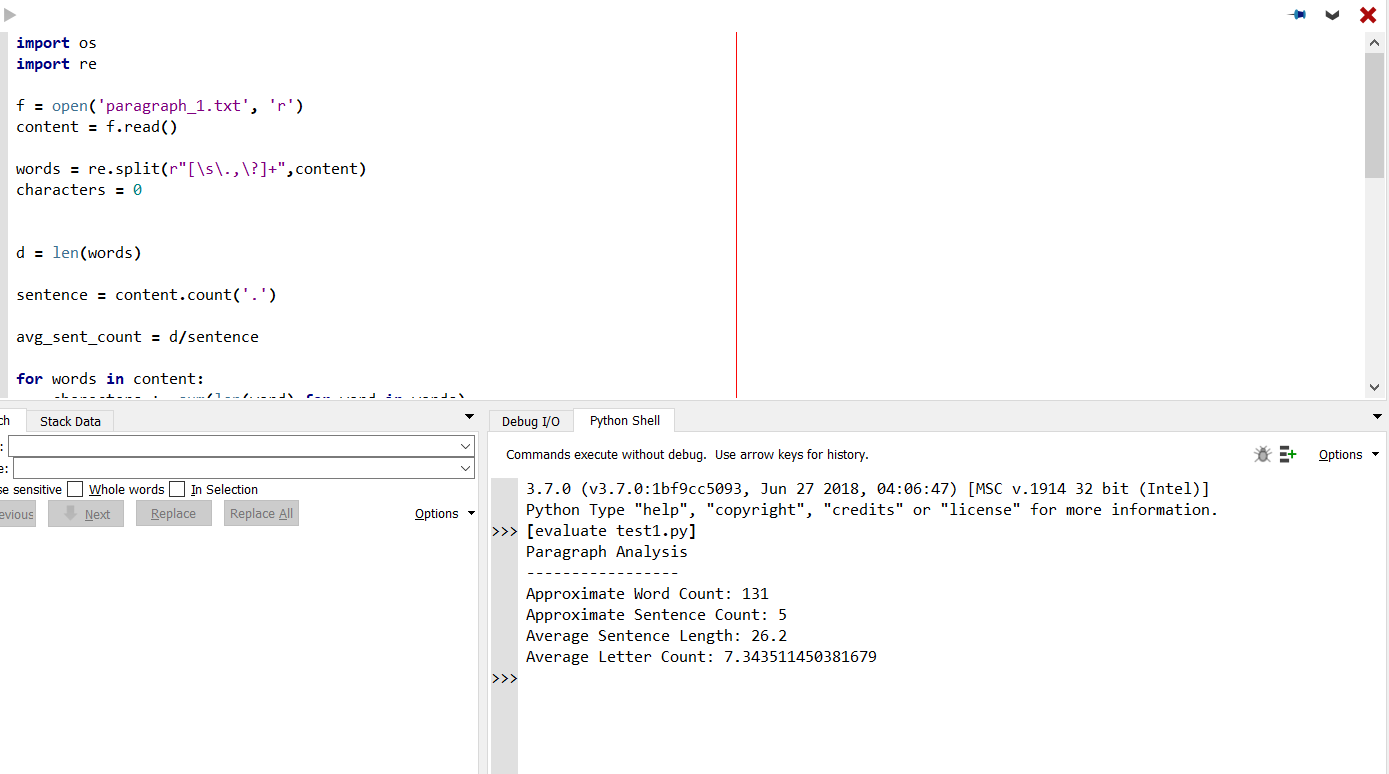
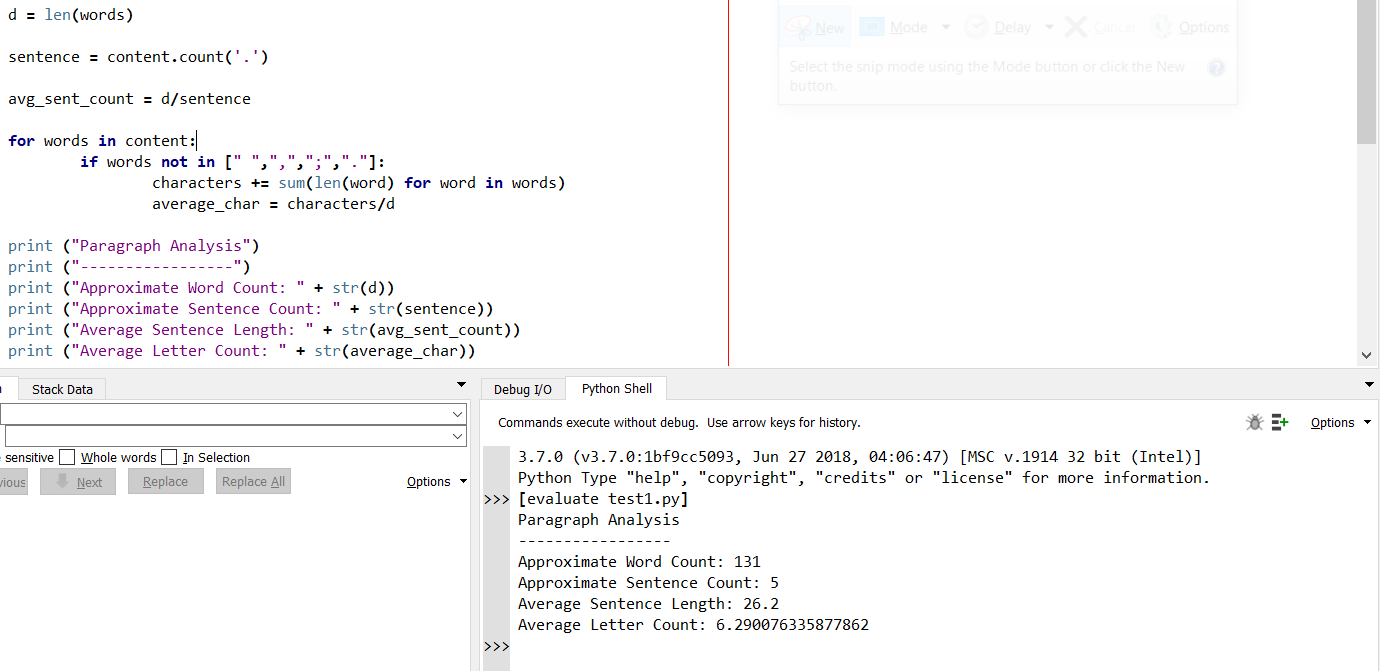
Homework

Changed region(s): [[0.0, 0.0, 0.8725, 1.0], [0.9348, 0.0, 1.0, 0.5067], [0.9036, 0.5663, 1.0, 1.0]]

diff --git a/Py Paragraph/para_final.py b/Py Paragraph/para_final.py
@@ -8,6 +8,7 @@ words = re.split(r"[\s\.,\?]+",content)
 characters = 0
 
 
+
 d = len(words)
 
 sentence = content.count('.')
@@ -15,8 +16,9 @@ sentence = content.count('.')
 avg_sent_count = d/sentence
 
 for words in content:
-    characters += sum(len(word) for word in words)
-    average_char = characters/d
+        if words not in [" ",",",";","."]:
+                characters += sum(len(word) for word in words)
+                average_char = characters/d
      
 print ("Paragraph Analysis")
 print ("-----------------")
@@ -24,4 +26,6 @@ print ("Approximate Word Count: " + str(d))
 print ("Approximate Sentence Count: " + str(sentence))
 print ("Average Sentence Length: " + str(avg_sent_count))
 print ("Average Letter Count: " + str(average_char))
+
+
 
